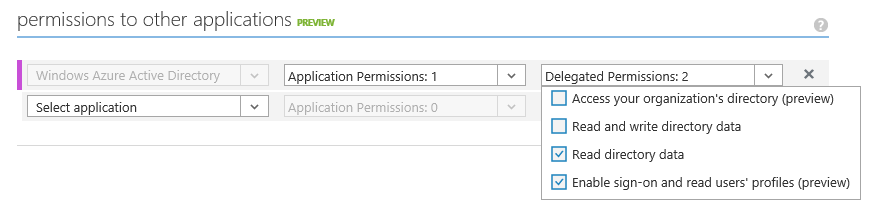
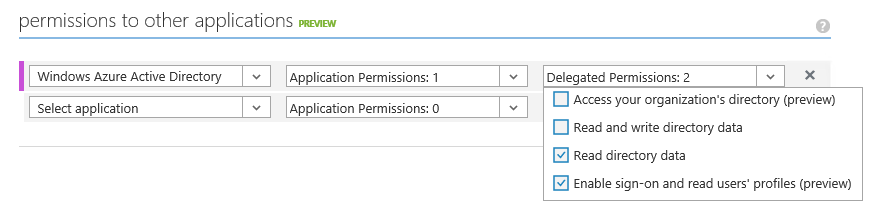
updated after new run

diff --git a/HOLs/HOL-IntroToWindowsAzureAD/HOL.md b/HOLs/HOL-IntroToWindowsAzureAD/HOL.md
@@ -612,7 +612,11 @@ In this task you will update the application configuration in the Management Por
 
 	_Generating Key for Read and Write_
 
-1. In the **CONFIGURE** page, under the **permissions to other applications** section, select **Read directory data** in the **Delegated Permissions** dropdown for the **Windows Azure Active Directory** application.
+1. In the **CONFIGURE** page, under the **permissions to other applications** section, select **Read directory data** in the **Application Permissions** dropdown for the **Windows Azure Active Directory** application. 
+
+	![Configure Application Permissions - Application Permissions](Images/configure-app-permissions---app-permissions.png?raw=true)
+
+1. Also in the **CONFIGURE** page and under the **permissions to other applications** section, select **Read directory data** in the **Delegated Permissions** dropdown. for the **Windows Azure Active Directory** application.
 
 	> **Note:** You can also set the application permissions by downloading, updating and uploading the JSON Manifest file. For more information see [Appendix A: Configuring permissions to other applications by updating the application manifest](#appendixA).
 
@@ -683,7 +687,7 @@ In this task you will add the Graph API Client library to your MVC app. This lib
 
 In this task you will update the **HomeController** of your MVC app to query the list of users from the Active Directory tenant using the Graph API Client, and create a view to display the results.
 
-1. In the **Solution Explorer**, expand the **Controllers** folder of the **ExpenseReport** project and open **HomeController.cs**. Add the following assemblies to the file and then save it.
+1. In the **Solution Explorer**, expand the **Controllers** folder of the **ExpenseReport** project and open **HomeController.cs**. Add the following references to assemblies to the file.
 
 	(Code Snippet - _IntroductionToAzureAD - Ex2 - HomeControllerReferences_)
 	
@@ -834,6 +838,8 @@ In this task you will update the **HomeController** of your MVC app to query the
 	</div>
 	````
 
+1. Press **Ctrl** + **Shift** + **S** to save the unsaved changes.
+	
 <a name="Ex2Task4"></a>
 #### Task 4 – Verification ####
 
